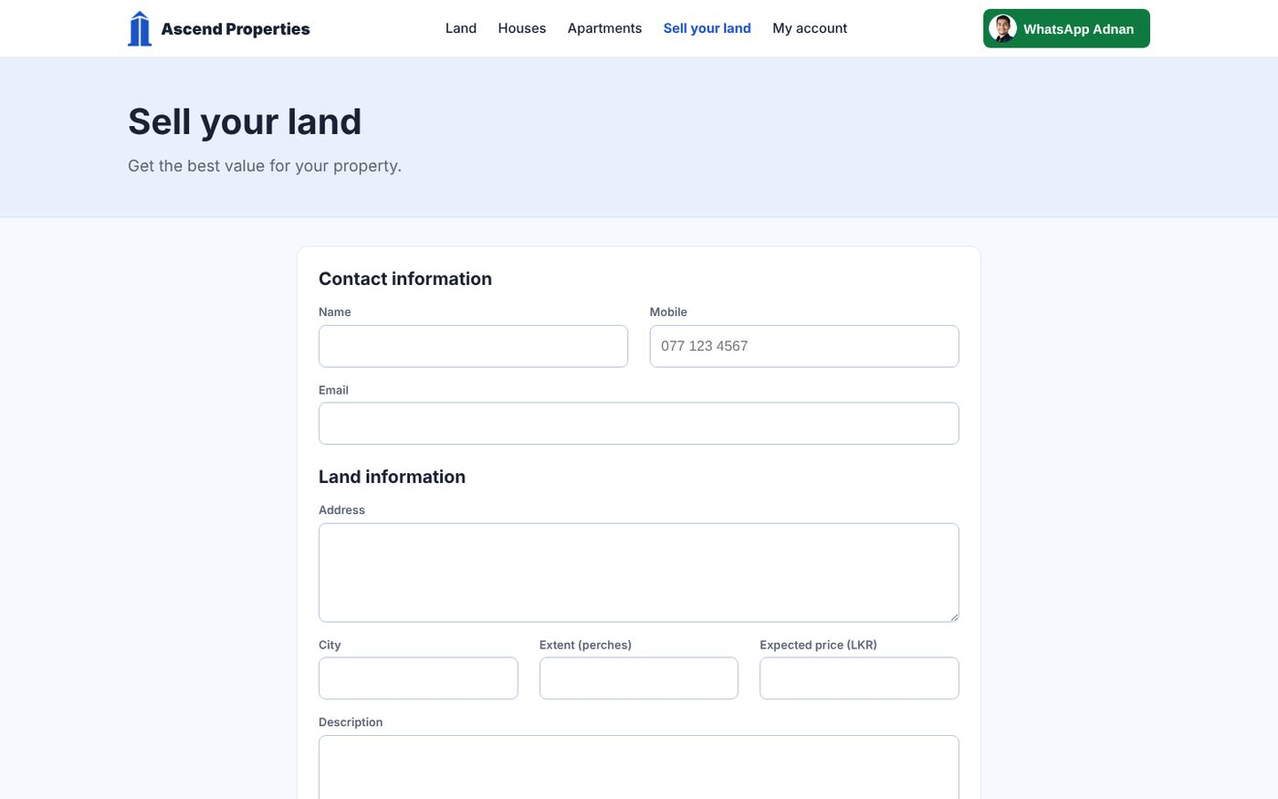
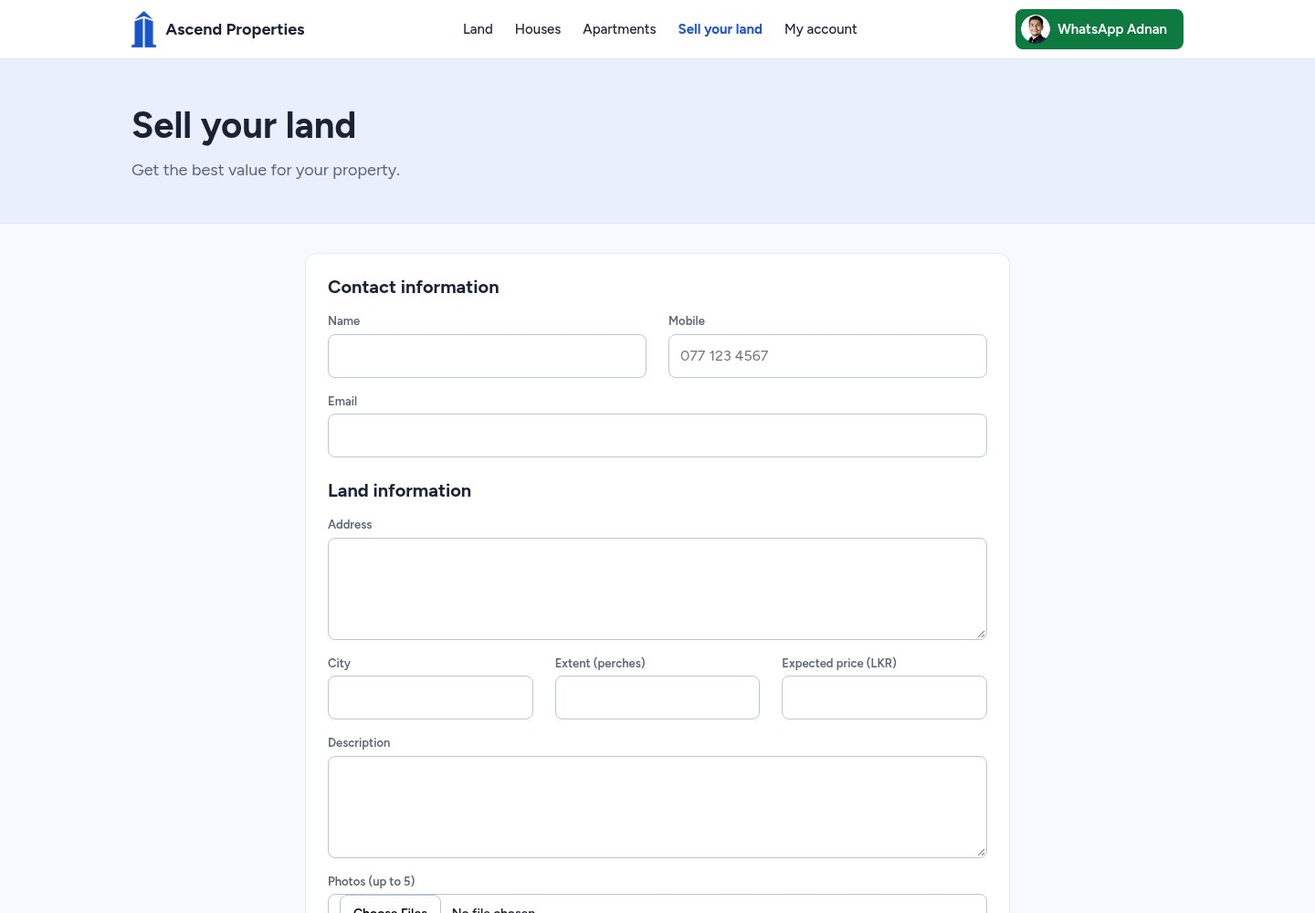
docs: rewrite the README as a long step-by-step walkthrough with sharp live screenshots

diff --git a/README.md b/README.md
@@ -1,51 +1,66 @@
 # Ascend Properties
 
 [![Checks](https://github.com/Hikki-dev/ascendproperties-lk/actions/workflows/checks.yml/badge.svg)](https://github.com/Hikki-dev/ascendproperties-lk/actions/workflows/checks.yml)
-![Astro](https://img.shields.io/badge/Astro-server%20rendered-BC52EE?logo=astro&logoColor=white)
-![Cloudflare Workers](https://img.shields.io/badge/Cloudflare-Workers%20%7C%20D1%20%7C%20R2-F6821F?logo=cloudflare&logoColor=white)
 [![Live demo](https://img.shields.io/badge/live-demo-1D4ED8)](https://ascendproperties-lk.makkoacknowledgesstress.workers.dev)
 [![Licence: MIT](https://img.shields.io/github/license/Hikki-dev/ascendproperties-lk)](LICENSE)
+![Astro](https://img.shields.io/badge/Astro-server%20rendered-BC52EE?logo=astro&logoColor=white)
+![Cloudflare Workers](https://img.shields.io/badge/Cloudflare-Workers%20%7C%20D1%20%7C%20R2-F6821F?logo=cloudflare&logoColor=white)
 ![React](https://img.shields.io/badge/React-islands-61DAFB?logo=react&logoColor=black)
 
-A real-estate website for Sri Lanka (lands, houses and apartments) with a built-in admin that staff can use without touching code, and a private portal where customers follow what they have bought. It runs entirely on Cloudflare's free tier.
+A website for selling land, houses and apartments in Sri Lanka. It comes with a simple admin that staff can use without touching code, and a private page where customers follow what they have bought.
 
-<p align="center"><img src="docs/images/hero.jpg" alt="The home page with three land listings and real photos, and a listing on a phone" width="100%"></p>
+<p align="center"><img src="docs/images/hero.jpg" alt="The home page on a desktop with three land listings and real photos, and a listing on a phone" width="100%"></p>
 
-<p align="center"><sub>The public pages are screenshots of the <a href="https://ascendproperties-lk.makkoacknowledgesstress.workers.dev">live demo</a>. The plots table, the admin and the customer portal are not on the live demo or need a login, so those pictures come from a local copy with the sample data from <code>demo/</code>. The listing photos are real photographs from Wikimedia Commons, credited in <a href="docs/Photo%20credits.md">Photo credits</a>.</sub></p>
+<p align="center"><sub>The live demo, on a desktop and on a phone. <b><a href="https://ascendproperties-lk.makkoacknowledgesstress.workers.dev">Open it</a></b> and follow along. The listings are samples, and the photos are real ones from Wikimedia Commons, credited in <a href="docs/Photo%20credits.md">Photo credits</a>.</sub></p>
 
-Buyers pick an area and a budget and see the real price per perch and the payment plan. Staff add listings from a phone. Customers sign in and see their balance, receipts and documents. It is modelled on how primelands.lk works, and [the research](docs/PRIMELANDS-RESEARCH.md) shows the evidence.
+A buyer picks a place and a budget, and sees the real price per perch and the payment plan. Staff add listings from their phone. A customer signs in and sees their balance, receipts and documents.
+
+You do not need to know how any of it works. The screens use plain words and big buttons, and nearly every action ends in WhatsApp, which is how people here already talk to an agent.
 
 ## On this page
 
-* [What you get](#what-you-get)
+* [What you get](#what-you-get): who it is for, and what it is built with
 * [How everything fits together](#how-everything-fits-together)
-* [Try it](#try-it): run it on your computer with sample data
-* [A tour of the site](#a-tour-of-the-site)
-  * [For buyers](#for-buyers)
-  * [For staff](#for-staff-admin)
-  * [For customers](#for-customers-portal)
-* [Deploy to Cloudflare](#deploy-to-cloudflare)
+* [Try it first](#try-it-first): the live demo
+* [The story, step by step](#the-story-step-by-step)
+  * [Part 1: The buyer](#part-1-the-buyer): [1. Home](#1-home), [2. Find land](#2-find-land), [3. Open a listing](#3-open-a-listing), [4. Plots and prices](#4-plots-and-prices), [5. Ask, visit or share](#5-ask-visit-or-share), [6. On a phone](#6-on-a-phone), [7. Houses](#7-houses), [8. Sell your land](#8-sell-your-land)
+  * [Part 2: The staff](#part-2-the-staff): [9. Today](#9-today), [10. Listings](#10-listings), [11. Edit a listing](#11-edit-a-listing), [12. Add from WhatsApp](#12-add-from-whatsapp), [13. Inquiries](#13-inquiries), [14. Sellers](#14-sellers), [15. Banners and ads](#15-banners-and-ads), [16. Contact and advisor](#16-contact-and-advisor)
+  * [Part 3: The customer](#part-3-the-customer): [17. Customers and purchases](#17-customers-and-purchases), [18. One customer](#18-one-customer), [19. The customer portal](#19-the-customer-portal), [20. Support tickets](#20-support-tickets)
+* [Run it yourself](#run-it-yourself)
+* [Put it online](#put-it-online)
 * [Your privacy and safety](#your-privacy-and-safety)
 * [Help and more reading](#help-and-more-reading)
+* [Legal and responsibility](#legal-and-responsibility)
 
 ## What you get
 
-| | |
+One site, three kinds of people. Each sees only what they need.
+
+| Who | What they do |
 |---|---|
-| **Search that fits how people think** | "I want land, in Galle, under 600,000 a perch." Prices are shown in rupees and in lakhs, with the monthly instalment |
-| **Rich listings** | Many photos, plots and prices for each numbered plot, highlights, nearby places with times, a video link, a map link, a printable flyer, and sharing on WhatsApp |
-| **WhatsApp first** | Every listing has "Ask on WhatsApp" and "Call" buttons that carry the listing name, and a visit-day picker |
-| **Sell your land** | A form where owners send details and photos to the agency |
-| **Admin for non-technical staff** | Add, edit, hide or mark sold, with photos shrunk on the phone. Paste a WhatsApp post, or a whole chat export, and get hidden draft listings back |
-| **After-sales portal** | A login for each customer with their purchases, payments, receipts, documents, handover stage and support tickets |
-| **Banners and ads** | A home hero, a banner and sponsored slots in the listing grid, with start and end dates |
-| **Fast and cheap** | Cloudflare Workers, D1 and R2 free tiers are enough for a growing agency |
+| **Buyers** | Search by type, place and budget, see the price per perch, in lakhs and as a monthly instalment, look at photos and plots, and ask on WhatsApp or call, with the listing name already in the message |
+| **Staff** | Add, edit, hide or mark a listing sold, from a phone. Paste a WhatsApp post, or a whole exported chat, and get hidden draft listings back. Answer enquiries, run banners and ads, and look after customers |
+| **Customers** | Sign in to see their purchases, payments, receipts, documents, the handover stage and the next instalment, and open support tickets |
+
+It also has a form for owners who want to sell their land, a printable flyer for each listing, sharing on WhatsApp, and a payment calculator on each listing. It is modelled on how primelands.lk works, and [the research](docs/PRIMELANDS-RESEARCH.md) shows the evidence.
+
+### What it is built with
+
+| Tool | What it does here |
+|---|---|
+| **Astro** | Draws the pages on the server, so they load fast and show up in search |
+| **React** | Only for the few interactive parts: the photo uploader, the plots table, the loan calculator and the chat importer |
+| **Cloudflare Workers** | Runs the whole site, with no separate server |
+| **Cloudflare D1** | The database (SQLite): listings, enquiries, customers, payments |
+| **Cloudflare R2** | Stores photos, brochures, receipts and documents |
+
+All of it has a free tier that is enough for a growing agency.
 
 ## How everything fits together
 
-<p align="center"><a href="docs/images/how-it-fits.svg"><img src="docs/images/how-it-fits.svg" alt="Diagram: buyers, customers and staff all use one Cloudflare Worker running Astro. It keeps data in D1, pictures and files in R2, and sends people to WhatsApp with links" width="100%"></a></p>
+There is one app and no separate API server. Buyers, customers and staff all use the same Worker. It keeps data in D1, files in R2, and sends people to WhatsApp with links.
 
-There is one app and no separate API server. The pages are rendered on the server by Astro, and the few interactive parts (the photo uploader, the plots table, the loan calculator and the chat importer) are small React islands.
+<p align="center"><a href="docs/images/how-it-fits.svg"><img src="docs/images/how-it-fits.svg" alt="Diagram: buyers, customers and staff all use one Cloudflare Worker running Astro. It keeps data in D1, pictures and files in R2, and sends people to WhatsApp with links" width="100%"></a></p>
 
 After a sale, the customer's journey looks like this:
 
@@ -53,13 +68,173 @@ After a sale, the customer's journey looks like this:
 
 The longer story is in [How it works](docs/How%20it%20works.md).
 
-## Try it
+## Try it first
 
-**[Open the live demo](https://ascendproperties-lk.makkoacknowledgesstress.workers.dev).** It is the public site running on Cloudflare with a few sample listings (their names start with "Demo"). The admin (`/admin`) and customer portal (`/portal`) need a login, so they are not open to visitors; the pictures below show them.
+**[Open the live demo](https://ascendproperties-lk.makkoacknowledgesstress.workers.dev).** It is the public site running on Cloudflare with four sample listings. Their names start with "Demo".
 
-To run your own copy on your computer:
+* Browse the listings, filter them, open one and try the buttons. The WhatsApp and call buttons open your phone's apps.
+* The admin (`/admin`) and the customer portal (`/portal`) need a login, so they are not open to visitors. The pictures below show them.
+* Do not put anything private in the forms. This is a demo.
 
-You need Node 22.22 or newer (Astro 7 requires it). There is nothing to install in the cloud: Wrangler runs a local copy of D1 and R2 for you.
+## The story, step by step
+
+Every picture of a public page below is a screenshot of the live demo. The plots table and the admin and portal pictures come from a local copy with the sample data in `demo/`, because they need a login or data the live demo does not have. In those, some small listing thumbnails are the older drawn sample pictures. Click a picture to see it full size. The same walk, with fewer words, is in [Getting started](docs/Getting%20started.md).
+
+### Part 1: The buyer
+
+It starts with someone who wants to buy a plot near Galle.
+
+#### 1. Home
+
+<a href="docs/images/home.jpg"><img src="docs/images/home.jpg" alt="The home page: a search for land by place and budget, and the newest listings with photos" width="100%"></a>
+
+The home page asks one question: *what kind of place are you looking for?* Choose what you want, where, and your budget per perch, then press **Show results**. Or tap a shortcut such as **Near Colombo** or **Instalments, no bank loan**.
+
+Under the search, **New this week** lists the newest listings. Each one is a card with a photo, the place, the price and a monthly instalment.
+
+#### 2. Find land
+
+<a href="docs/images/land.jpg"><img src="docs/images/land.jpg" alt="Land results with filters for type, district, maximum price, keyword and must-have features, and three listings with photos" width="100%"></a>
+
+The results show the price per perch, the same price in lakhs, and the monthly instalment, so a buyer can compare plots without a calculator. The filters are the things people really ask about: a clear deed, electricity, water and an instalment plan. Results can be sorted by lowest price.
+
+#### 3. Open a listing
+
+<a href="docs/images/listing.jpg"><img src="docs/images/listing.jpg" alt="A listing with a large photo, a second photo, the price, highlights and an advisor card with WhatsApp buttons" width="100%"></a>
+
+A listing has its photos, the price, short highlights, and the plot size and papers. On the right, the advisor card has the advisor's name and reply hours, and a message that is already written for you.
+
+<a href="docs/images/listing-lake.jpg"><img src="docs/images/listing-lake.jpg" alt="A Colombo listing with a night photo of Beira Lake and towers, and the advisor card" width="100%"></a>
+
+Every listing has its own photos and details. This one is by a lake near Colombo.
+
+#### 4. Plots and prices
+
+<a href="docs/images/listing-plots.jpg"><img src="docs/images/listing-plots.jpg" alt="The plots and prices table for a listing, with sold, reserved and available plots" width="100%"></a>
+
+A listing can have a table of numbered plots. Each has its size, its price and a status: available, reserved or sold. A sold plot is crossed out, a reserved one says **Reserved: ask**, and an available one has **Ask about this**.
+
+#### 5. Ask, visit or share
+
+The advisor card has four things a buyer can do:
+
+* **Send this on WhatsApp** opens WhatsApp with a message that already names the listing and its price.
+* **Call** dials the agency.
+* **Pick a day** and **Ask for a site visit** opens WhatsApp with a message asking to visit on that day.
+* **Share with family on WhatsApp** sends the listing to someone else. **Print or save as a PDF flyer** gives a one-page flyer.
+
+#### 6. On a phone
+
+<p align="center">
+<img src="docs/images/home-mobile.jpg" alt="The home page on a phone" width="32%">
+<img src="docs/images/listing-mobile.jpg" alt="A listing on a phone with a WhatsApp button fixed to the bottom" width="32%">
+</p>
+
+On a phone the menu folds into one button, the filters fold away, and a **WhatsApp** and **Call** bar stays at the bottom of every listing, so the next step is always one tap away.
+
+#### 7. Houses
+
+<a href="docs/images/houses.jpg"><img src="docs/images/houses.jpg" alt="The houses page with one house, its photo, bedrooms, plot size and total price" width="100%"></a>
+
+Houses and apartments work the same way. A house card shows the bedrooms and the plot size, and the total price, here **LKR 22,500,000**, with the same buttons.
+
+#### 8. Sell your land
+
+<a href="docs/images/sell.jpg"><img src="docs/images/sell.jpg" alt="The sell your land form with contact information, land information and photos" width="100%"></a>
+
+Owners can send their land to the agency. They give their name, mobile and email, then the address, town, size in perches, expected price and a description, and add up to five photos. The staff see it under **Sellers** (step 14).
+
+That is the buyer's whole journey. Now the people behind the screen.
+
+### Part 2: The staff
+
+The staff have no code to touch. They sign in at `/login` and see their own pages.
+
+#### 9. Today
+
+<a href="docs/images/admin-dashboard.jpg"><img src="docs/images/admin-dashboard.jpg" alt="Admin home: buyers waiting for a reply, sellers waiting, and three steps to add a listing" width="100%"></a>
+
+The admin opens on **Today**: who has asked about a property, and who wants to sell. Each one has **Reply on WhatsApp** and **Call** buttons, and **Done** when it has been dealt with. It uses plain words on purpose.
+
+#### 10. Listings
+
+<a href="docs/images/admin-listings.jpg"><img src="docs/images/admin-listings.jpg" alt="Listings table with a picture, type, district, price and status" width="100%"></a>
+
+All the listings in one table, with the type, the district, the price and whether each is on the website. **+ Add a new listing** starts a new one.
+
+#### 11. Edit a listing
+
+<a href="docs/images/admin-listing-edit.jpg"><img src="docs/images/admin-listing-edit.jpg" alt="Edit a listing: the basics, whether it is on the website, and photos" width="100%"></a>
+
+Adding a listing takes a few boxes and some photos. Choose photos from the phone: they are made smaller before they are uploaded. The first photo is the main one.
+
+"Is it on the website?" is a simple choice between **Yes, show it**, **Sold out** and **No, hide it**. On the same page staff can add plots and prices, highlights, nearby places with times, a map link, a video link, a brochure and the payment plan.
+
+#### 12. Add from WhatsApp
+
+<a href="docs/images/admin-import.jpg"><img src="docs/images/admin-import.jpg" alt="Add listings from WhatsApp: import a whole chat export or paste one message" width="100%"></a>
+
+This is the time-saver. Paste one posted message, or choose a whole exported WhatsApp chat (the `.zip` with media). Each listing it finds becomes a **hidden draft** with the district, size, price and papers filled in, and its photos. Staff check it, fix what is wrong and publish it. Nothing goes live until they say so.
+
+#### 13. Inquiries
+
+<a href="docs/images/admin-inquiries.jpg"><img src="docs/images/admin-inquiries.jpg" alt="Inquiries with reply on WhatsApp, call and email buttons and a status choice" width="100%"></a>
+
+Questions from listing pages arrive here. Reply on WhatsApp, call or email, and set the status to new, contacted or closed. **Download as Excel (CSV)** saves them all.
+
+#### 14. Sellers
+
+<a href="docs/images/admin-sellers.jpg"><img src="docs/images/admin-sellers.jpg" alt="Sell-your-land leads with the owner's details and photos" width="100%"></a>
+
+The owners who filled in the form in step 8 appear here, with their photos, which only admins can see. They are marked contacted or closed in the same way.
+
+#### 15. Banners and ads
+
+<a href="docs/images/admin-banners.jpg"><img src="docs/images/admin-banners.jpg" alt="Banners and ads with slots, run dates and a form for a new banner" width="100%"></a>
+
+A message on the home page hero, a banner under it, or a sponsored slot between listings. Each has a headline, a link, an optional picture or video, and start and end dates. **Pause** hides one without deleting it.
+
+#### 16. Contact and advisor
+
+<a href="docs/images/admin-settings.jpg"><img src="docs/images/admin-settings.jpg" alt="Settings for the WhatsApp number, phone number, advisor name, photo and office address" width="100%"></a>
+
+The WhatsApp number every button uses, the phone number, the advisor's name, title, reply hours and photo, the office address and the social pages. A change shows on every page at once.
+
+The staff's work is finished once a buyer says yes. Then the third person in the story arrives.
+
+### Part 3: The customer
+
+After a sale the customer gets a login, and the agency keeps the records.
+
+#### 17. Customers and purchases
+
+<a href="docs/images/admin-customers.jpg"><img src="docs/images/admin-customers.jpg" alt="Customers and purchases table with paid and total amounts" width="100%"></a>
+
+Customers do not register themselves. Staff add a customer with a name, phone, email (their login) and a temporary password of at least 8 characters. Then they add the purchase: the project, the plot and the total price.
+
+#### 18. One customer
+
+<a href="docs/images/admin-customer.jpg"><img src="docs/images/admin-customer.jpg" alt="One customer: handover stage, payments with receipts, and documents shown to the customer" width="100%"></a>
+
+For each customer, staff record payments with a date, a description, the amount and a receipt, upload documents such as the agreement and the deed, set the **handover stage** and the next instalment date, and reset a forgotten password.
+
+#### 19. The customer portal
+
+<a href="docs/images/portal.jpg"><img src="docs/images/portal.jpg" alt="Customer portal with total price, amount paid, balance, next instalment, handover progress, payment history and documents" width="100%"></a>
+
+The customer signs in and is taken to `/portal`. They see only their own purchases: the total, what they have paid, the balance, the next instalment, the five handover stages (Booking confirmed, Agreement signed, Payments in progress, Deed preparation and Handover), every payment with its receipt, and their documents. See [Customer portal](docs/Customer%20portal.md).
+
+#### 20. Support tickets
+
+<a href="docs/images/admin-tickets.jpg"><img src="docs/images/admin-tickets.jpg" alt="Support tickets from customers, with replies and a status" width="100%"></a>
+
+If something is wrong, the customer opens a ticket from their portal. Staff read it, reply, and close it when it is solved. The customer sees the replies in the portal.
+
+That closes the loop: the staff's listings are what the buyer searched for in step 2. More in the [Admin guide](docs/Admin%20guide.md).
+
+## Run it yourself
+
+You need Node 22.22 or newer (Astro 7 requires it). There is nothing to set up in the cloud: Wrangler runs a local copy of D1 and R2 for you.
 
 ```bash
 git clone https://github.com/Hikki-dev/ascendproperties-lk.git
@@ -72,80 +247,17 @@ npm run dev                        # http://localhost:4321
 
 Sign in at `/login` with the admin email and password from `.dev.vars`. The first admin is created the first time you sign in.
 
-**Want it to look like the screenshots?** With `npm run dev` still running, in a second terminal:
+**Want it to look like the pictures above?** With `npm run dev` still running, in a second terminal:
 
 ```bash
 bash demo/load.sh
 ```
 
-That draws six sample pictures, fills in plots, highlights and nearby places, adds some enquiries and leads, and creates a customer with a purchase, three payments and a document. Sign in at `/portal` as `nimali@example.com` with the password `demo-customer-1`. Details are in [Demo data](docs/Demo%20data.md). It only touches your local copy.
+That adds the sample photos, plots, highlights and nearby places, some enquiries and leads, and a customer with a purchase, three payments and a document. Sign in at `/portal` as `nimali@example.com` with the password `demo-customer-1`. Details are in [Demo data](docs/Demo%20data.md). It only touches your local copy.
 
-`npm test` runs the unit tests (11 of them, all passing). `tests/smoke.sh` runs a longer end-to-end check against the dev server. Step by step, with fixes for the usual snags, is in [Getting started](docs/Getting%20started.md).
+`npm test` runs the unit tests (11 of them). `tests/smoke.sh` runs a longer end-to-end check against the dev server. Step by step, with fixes for the usual snags, is in [Getting started](docs/Getting%20started.md).
 
-## A tour of the site
-
-Click a picture to see it full size.
-
-### For buyers
-
-<a href="docs/images/home.jpg"><img src="docs/images/home.jpg" alt="Home page with a search for land by place and budget, and the newest listings" width="100%"></a>
-
-The home page asks one question: *what kind of place are you looking for?* Buyers choose a type, an area and a budget, or tap a shortcut like "Near Colombo" or "Instalments, no bank loan".
-
-<a href="docs/images/land.jpg"><img src="docs/images/land.jpg" alt="Land results with filters for district, maximum price, keyword and must-have features" width="100%"></a>
-
-Results show the real price per perch, the price in lakhs, and the monthly instalment, with filters for the things people really ask about: a clear deed, electricity, water and an instalment plan.
-
-<a href="docs/images/listing.jpg"><img src="docs/images/listing.jpg" alt="A listing with photos, a plot plan, price, advisor card and WhatsApp buttons" width="100%"></a>
-
-<a href="docs/images/listing-plots.jpg"><img src="docs/images/listing-plots.jpg" alt="The plots and prices table for a listing, with sold, reserved and available plots" width="100%"></a>
-
-A listing can have a table of numbered plots, each with its size, price and status (available, reserved or sold). The side card has the advisor, WhatsApp and call buttons, a visit-day picker, and a printable flyer.
-
-<p align="center">
-<img src="docs/images/home-mobile.jpg" alt="The home page on a phone" width="32%">
-<img src="docs/images/listing-mobile.jpg" alt="A listing on a phone with a WhatsApp button fixed to the bottom" width="32%">
-</p>
-
-On a phone the menu collapses, the filters fold away, and a WhatsApp and Call bar stays at the bottom.
-
-<a href="docs/images/sell.jpg"><img src="docs/images/sell.jpg" alt="Sell your land form with contact details, land information and photos" width="100%"></a>
-
-### For staff (admin)
-
-<a href="docs/images/admin-dashboard.jpg"><img src="docs/images/admin-dashboard.jpg" alt="Admin home: buyers waiting for a reply, sellers waiting, and three steps to add a listing" width="100%"></a>
-
-The admin opens on **Today**: who has asked about a property, who wants to sell, with buttons to reply on WhatsApp or call. It uses plain words on purpose.
-
-<a href="docs/images/admin-listings.jpg"><img src="docs/images/admin-listings.jpg" alt="Listings table with a picture, type, district, price and status" width="100%"></a>
-
-<a href="docs/images/admin-listing-edit.jpg"><img src="docs/images/admin-listing-edit.jpg" alt="Edit a listing: the basics, whether it is on the website, and photos" width="100%"></a>
-
-Adding a listing takes four boxes and some photos. "Is it on the website?" is a simple choice between show, sold out and hide.
-
-<a href="docs/images/admin-import.jpg"><img src="docs/images/admin-import.jpg" alt="Add listings from WhatsApp: import a whole chat export or paste one message" width="100%"></a>
-
-**Add from WhatsApp** is the time-saver: paste a posted message, or drop in a whole exported chat, and each listing it finds becomes a hidden draft with the district, size, price and papers filled in. Staff check it, then publish.
-
-<a href="docs/images/admin-inquiries.jpg"><img src="docs/images/admin-inquiries.jpg" alt="Inquiries with reply on WhatsApp, call and email buttons and a status choice" width="100%"></a>
-
-<a href="docs/images/admin-banners.jpg"><img src="docs/images/admin-banners.jpg" alt="Banners and ads with slots, run dates and a form for a new banner" width="100%"></a>
-
-<a href="docs/images/admin-customers.jpg"><img src="docs/images/admin-customers.jpg" alt="Customers and purchases table with paid and total amounts" width="100%"></a>
-
-<a href="docs/images/admin-customer.jpg"><img src="docs/images/admin-customer.jpg" alt="One customer: handover stage, payments with receipts, and documents shown to the customer" width="100%"></a>
-
-For each customer, staff record payments with receipts, upload documents such as the agreement and the deed, set the handover stage and the next due date, and answer support tickets.
-
-More: [sellers' leads](docs/images/admin-sellers.jpg), [contact and advisor settings](docs/images/admin-settings.jpg) and [support tickets](docs/images/admin-tickets.jpg). The full list of what staff can do is in the [Admin guide](docs/Admin%20guide.md).
-
-### For customers (portal)
-
-<a href="docs/images/portal.jpg"><img src="docs/images/portal.jpg" alt="Customer portal with total price, amount paid, balance, next instalment, handover progress, payment history and documents" width="100%"></a>
-
-A customer signs in at `/portal` and sees only their own purchases: the total, what they have paid, the balance, the next instalment, the five handover stages, every payment with its receipt, their documents, and a place to open a support ticket. See [Customer portal](docs/Customer%20portal.md).
-
-## Deploy to Cloudflare
+## Put it online
 
 ```bash
 npx wrangler login
@@ -187,28 +299,20 @@ To report a security problem, read [SECURITY.md](SECURITY.md).
 | Change the code | [Contributing](CONTRIBUTING.md) |
 | See what changed | [Changes](CHANGELOG.md) |
 
-## Layout
+### Where things live
 
 ```
 migrations/      D1 schema            seed.sql   five sample listings (delete before launch)
 src/lib/         db, auth, util, parse, chat      src/pages/   public site, /admin, /portal, /api
 src/components/  ImageUploader, LoanCalc, LotsEditor, ChatImport (React islands), cards, ads
-demo/            richer sample data and the script that loads it
+demo/            sample data, sample photos and the script that loads them
 tests/           unit tests and an end-to-end smoke script
 ```
 
 ## Legal and responsibility
 
 * Ascend Properties is a portfolio and learning project, not a real agency's site. The listings in the demo are samples.
-* The code is released under the [MIT licence](LICENSE), as it is, with no promises.
+* The code is released under the [MIT licence](LICENSE), as it is, with no promises. The sample photos keep their own licences, see [Photo credits](docs/Photo%20credits.md).
 * [primelands.lk](docs/PRIMELANDS-RESEARCH.md) is studied only for how a site like this works. This project is not connected to it.
-
-## Contributing
-
-Fixes and ideas are welcome. Read [CONTRIBUTING.md](CONTRIBUTING.md) first.
-
-## Credits
-
-Built with [Astro](https://astro.build), [React](https://react.dev) and [Cloudflare Workers](https://workers.cloudflare.com). Zip handling is by [fflate](https://github.com/101arrowz/fflate).
-
-Built by [Yusuf (Hikki-dev)](https://github.com/Hikki-dev).
+* Built with [Astro](https://astro.build), [React](https://react.dev) and [Cloudflare Workers](https://workers.cloudflare.com). Zip handling is by [fflate](https://github.com/101arrowz/fflate).
+* Built by [Yusuf (Hikki-dev)](https://github.com/Hikki-dev).
